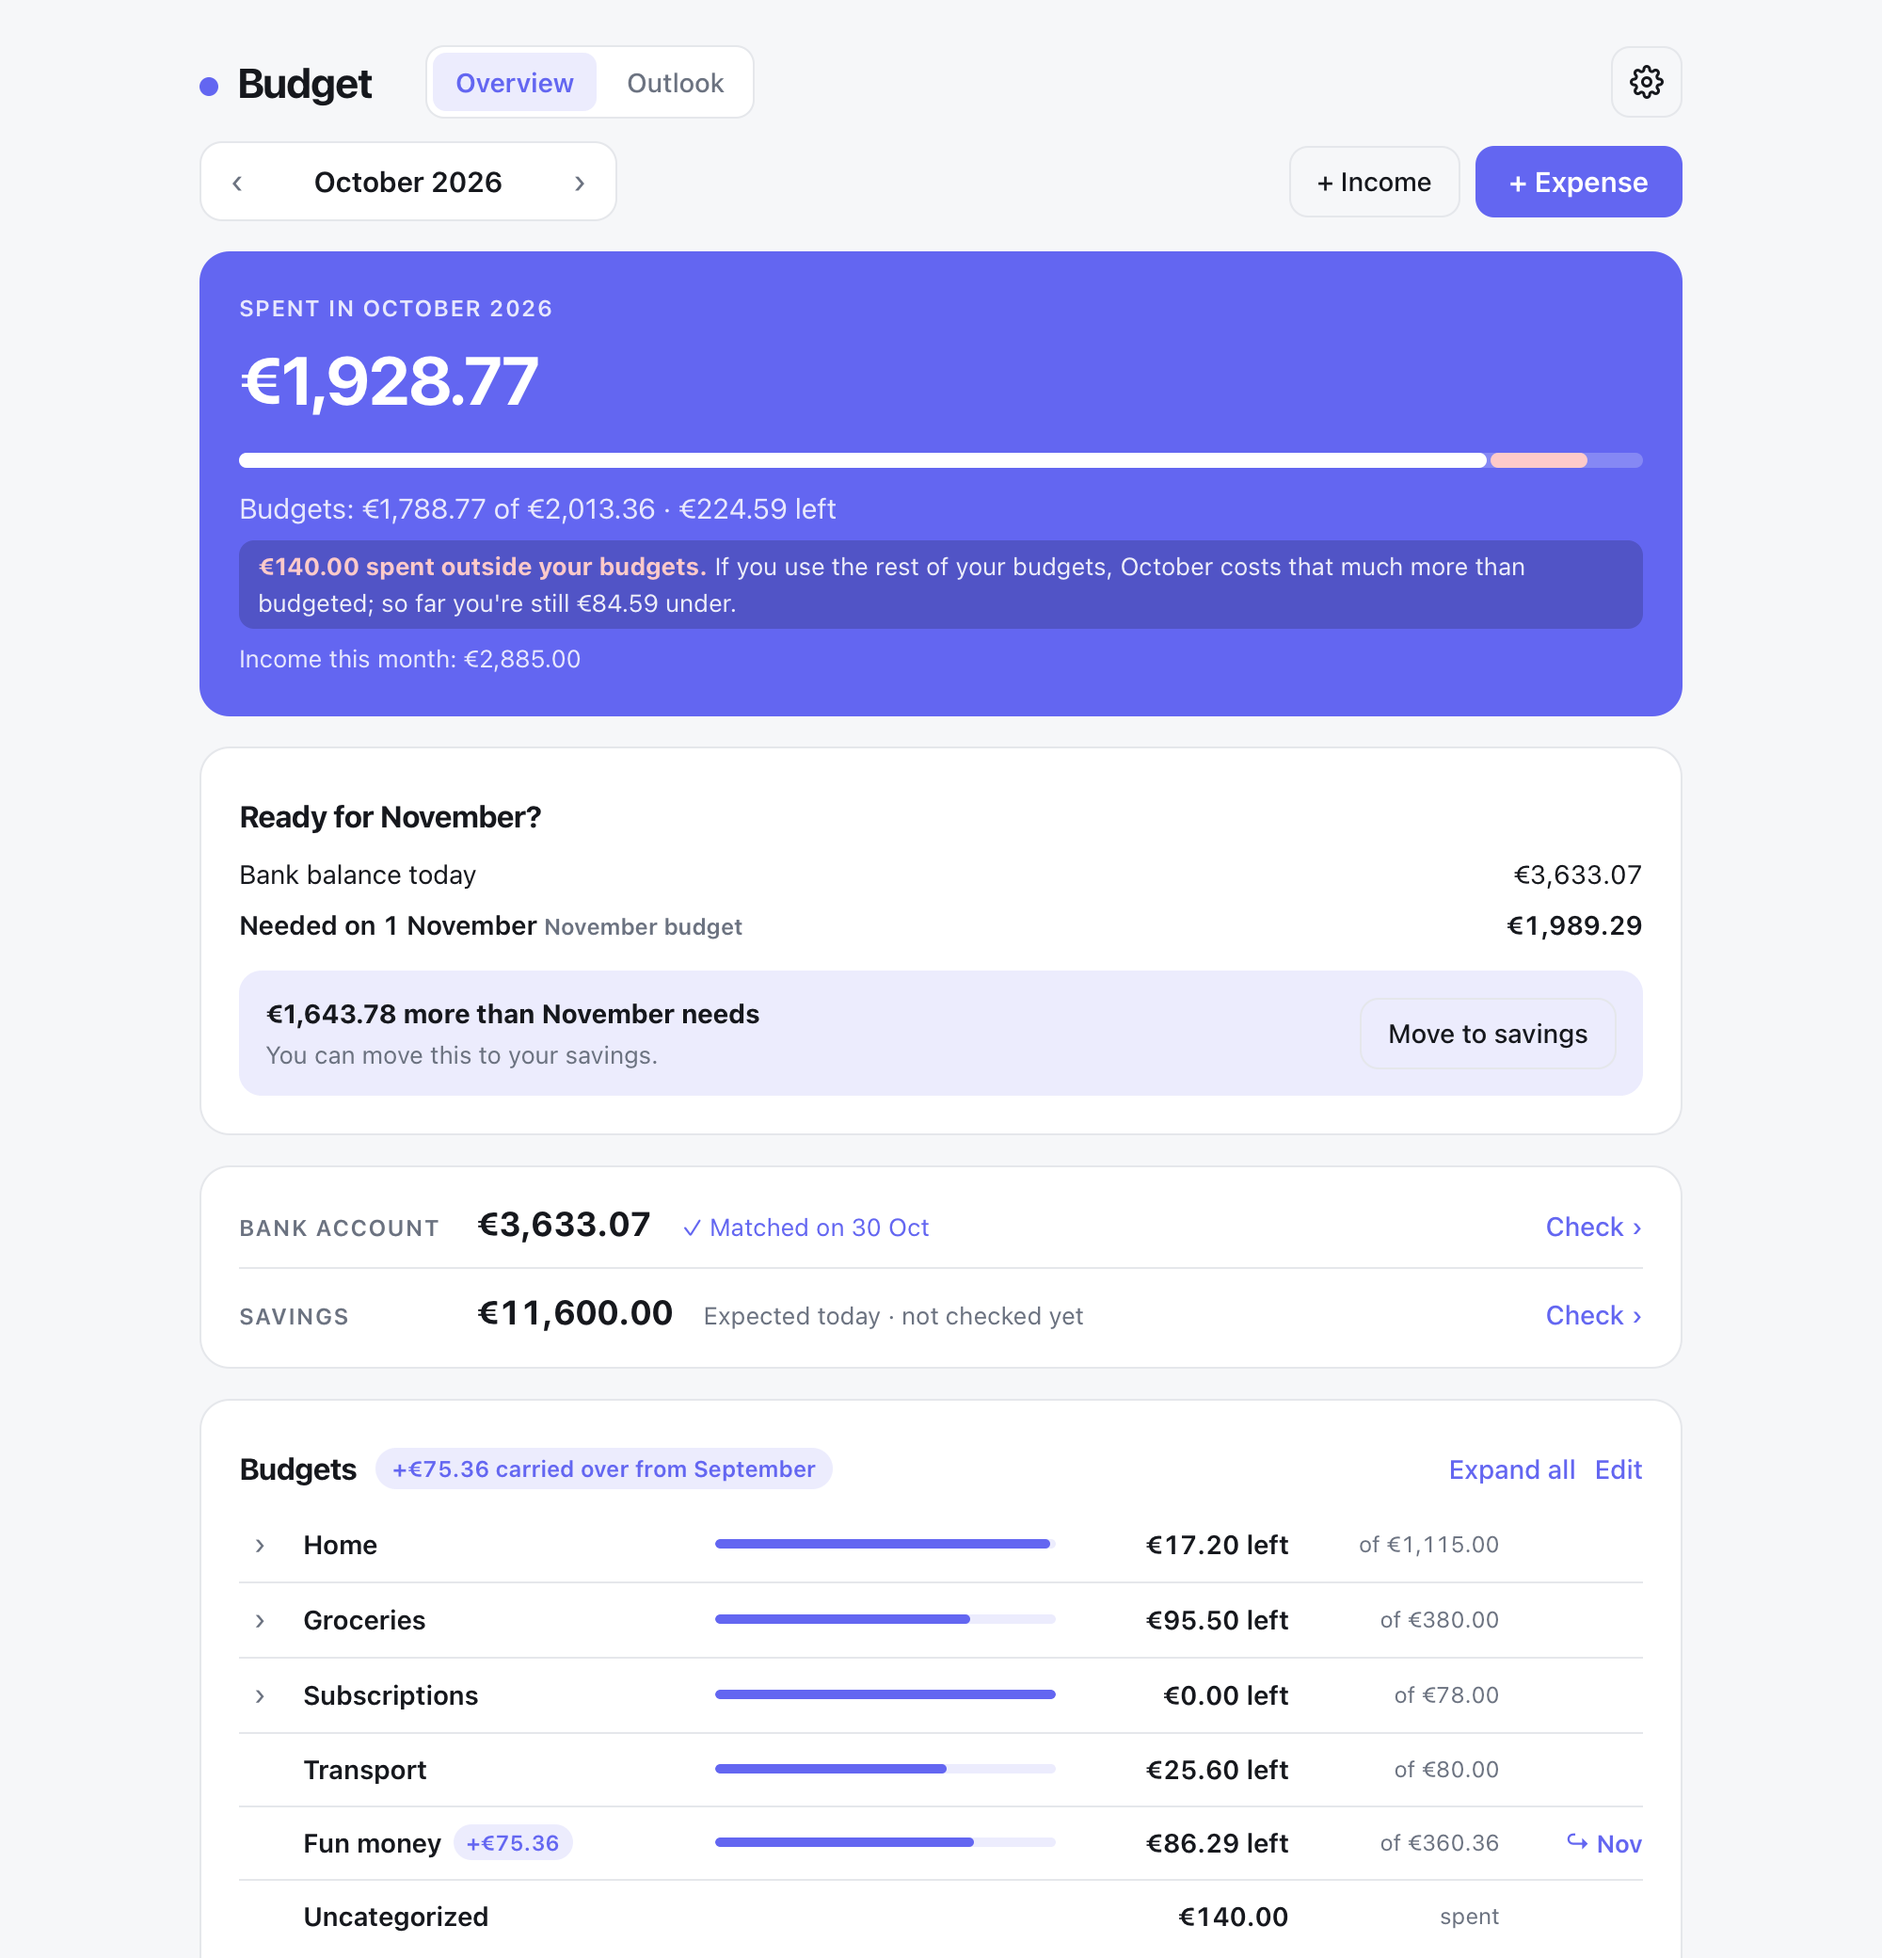
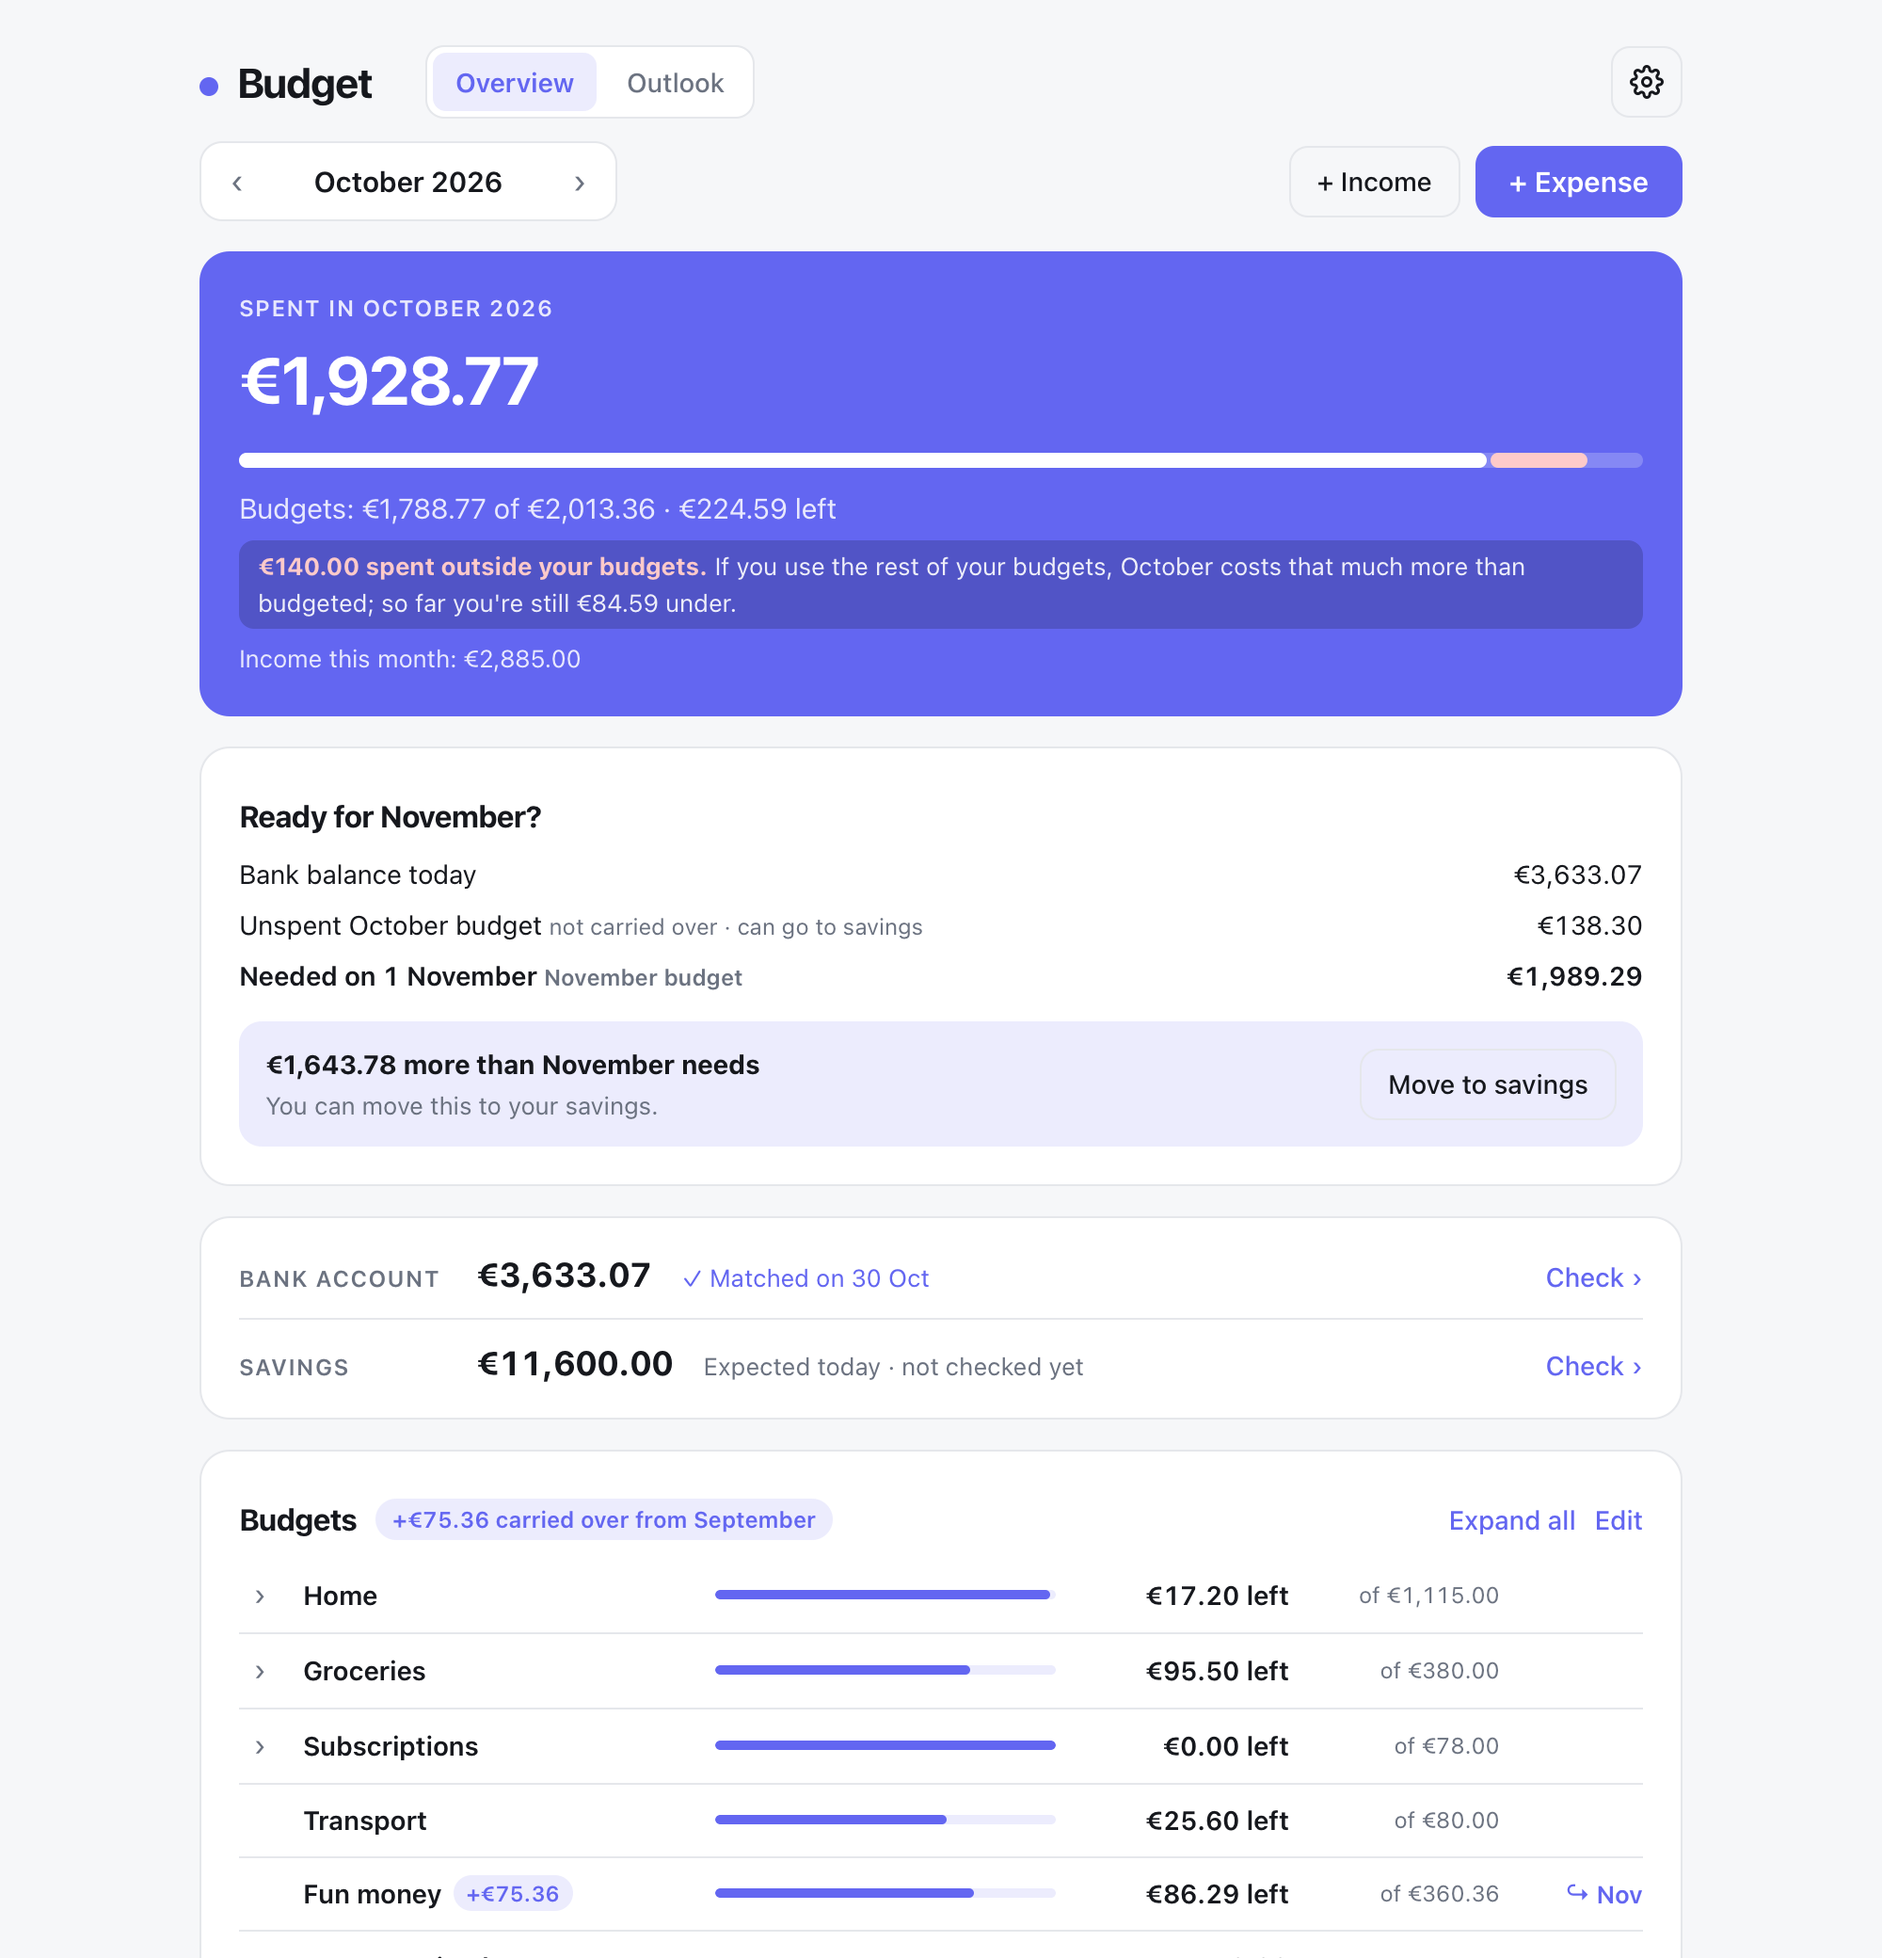
Clarify the Outlook's savings figure and count budget that can still be spent
The column is now 'Savings + spare', since it includes what's left in the bank
after next month's budget. A transfer to savings no longer hides budget that can
still be spent this month.

diff --git a/static/js/outlook.js b/static/js/outlook.js
@@ -48,7 +48,7 @@ export async function renderOutlook() {
 
   const cell = (v, cls = "") => `<td class="${cls}">${v === undefined ? "—" : money(v)}</td>`;
   $("#outlook-table").innerHTML = `
-    <thead><tr><th>Month</th><th>Income</th><th>Budget</th><th>Planned</th><th>Result</th><th>Savings</th><th>Free to spend</th></tr></thead>
+    <thead><tr><th>Month</th><th>Income</th><th>Budget</th><th>Planned</th><th>Result</th><th title="Your savings, plus what's left in your bank after next month's budget">Savings + spare</th><th>Free to spend</th></tr></thead>
     <tbody>${rows.map((r) => `<tr class="${r.now ? "now" : ""} ${r.month === projection.low_month ? "low" : ""}">
       <td>${monthName(r.month, "short")}${r.now ? ` <span class="muted">now</span>` : ""}</td>
       ${cell(r.income)}${cell(r.budget)}${r.planned ? cell(r.planned) : "<td></td>"}
@@ -58,11 +58,11 @@ export async function renderOutlook() {
   const months = rows.map((r) => r.month);
   const savings = rows.map((r) => r.savings), buffers = rows.map((r) => r.buffer);
   lineChart($("#outlook-chart"), months, [
-    { name: "Savings", values: savings, cls: "line", against: buffers },
+    { name: "Savings + spare", values: savings, cls: "line", against: buffers },
     { name: "Buffer", values: buffers, cls: "line dashed", dots: false },
   ], {
     includeZero: true,
-    tooltip: (i) => `<b>${monthName(months[i])}</b><span>Savings: ${money(savings[i])}</span><span>Buffer: ${money(buffers[i])}</span>`,
+    tooltip: (i) => `<b>${monthName(months[i])}</b><span>Savings + spare: ${money(savings[i])}</span><span>Buffer: ${money(buffers[i])}</span>`,
   });
 }
 

diff --git a/static/index.html b/static/index.html
@@ -114,7 +114,7 @@
       <div class="section-head">
         <h3>Savings outlook</h3>
         <span class="spacer"></span>
-        <span class="legend"><i class="swatch-line good"></i>Savings above <i class="swatch-line bad"></i>below buffer <i class="swatch-line dashed"></i><span id="buffer-label"></span></span>
+        <span class="legend"><i class="swatch-line good"></i>Above <i class="swatch-line bad"></i>below buffer <i class="swatch-line dashed"></i><span id="buffer-label"></span></span>
         <button id="buffer-edit" class="link-btn">Change buffer</button>
       </div>
       <div id="outlook-chart" class="hist-plot"></div>
@@ -123,7 +123,7 @@
     <section class="card">
       <div class="section-head"><h3>Month by month</h3></div>
       <div class="table-wrap"><table id="outlook-table" class="outlook-table"></table></div>
-      <p class="muted hist-note">Savings: what's left after next month's budget is set aside in your bank. Free to spend: what you can take out that month without your savings dropping below your buffer then or in any later month. Assumes every budget is fully spent. For the current month, Planned is what was spent outside your budgets.</p>
+      <p class="muted hist-note">Savings + spare: your savings plus what's left in your bank after next month's budget is set aside. Free to spend: what you can take out that month without your savings dropping below your buffer then or in any later month. Assumes every budget is fully spent. For the current month, Planned is what was spent outside your budgets.</p>
     </section>
 
     <section class="card">

diff --git a/app/budgets.py b/app/budgets.py
@@ -13,7 +13,7 @@
   budget lines (`splits`); what the splits don't cover is uncategorized. Income splits
   add extra budget to a line for that month. Transfers don't touch budgets.
 """
-from .money import ApiError, GENERIC_ERROR, next_month
+from .money import ApiError, GENERIC_ERROR, current_month, next_month
 
 FIRST_MONTH = "0000-01"  # start month for budgets that have always applied
 
@@ -242,6 +242,9 @@ def month_data(conn, month, exclude=None):
             "budget_spent": total_spent - outside,  # spent on budgets
             "carried_in": sum(l["carried_in"] for l in all_lines),
         },
-        # Money taken from savings isn't unspent budget, so it never adds to the rest.
-        "leftover": {"unspent": unspent, "saved": saved, "rest": max(0, unspent - max(0, saved))},
+        # What's left of the budgets. Until the month ends it can all still be spent, whatever
+        # was moved to savings. Afterwards, money moved to savings counts as that leftover;
+        # money taken from savings isn't unspent budget, so it never adds to it.
+        "leftover": {"unspent": unspent, "saved": saved,
+                     "rest": max(0, unspent - max(0, saved)) if month < current_month() else unspent},
     }

diff --git a/app/outlook.py b/app/outlook.py
@@ -6,9 +6,9 @@ month doesn't need is savings. A shortfall beyond that has to come from savings.
 
 The projection starts from all money in the bank and savings today (assuming the rest of
 this month's budget is spent). Each coming month adds expected income (plans) and
-subtracts its budgets and planned expenses. Savings = what's left after next month's
-budget is set aside in the bank; free to spend = savings above the buffer, in that month
-and every later one. The buffer is a number of months of budget, or a fixed amount.
+subtracts its budgets and planned expenses. "Savings + spare" = savings plus what's left
+in the bank after next month's budget is set aside; free to spend = that amount above
+the buffer, in that month and every later one. The buffer is a number of months of budget, or a fixed amount.
 """
 from .accounts import expected_balance, setting, starting_point
 from .budgets import budget_total, month_data
